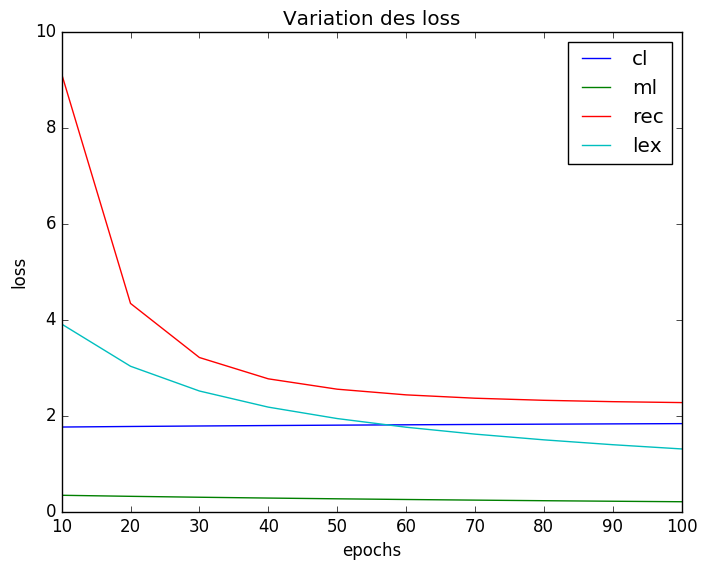
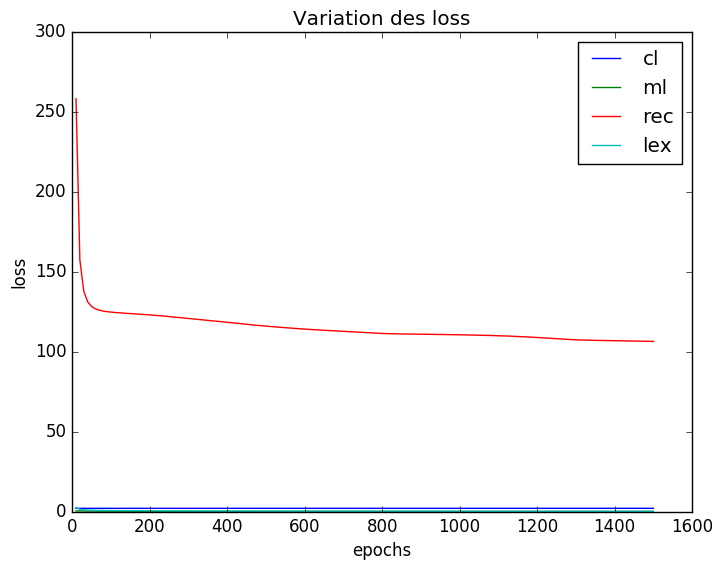
extract pair

diff --git a/kmeans_lexical_ml_cl/main.py b/kmeans_lexical_ml_cl/main.py
@@ -7,22 +7,21 @@ import math
 import autoencoder as au
 import matplotlib.pyplot as plt
 import sys
-from sklearn.cluster import KMeans
-from sklearn.datasets import fetch_20newsgroups
-from sklearn.feature_extraction.text import TfidfVectorizer
 import syntetic_data as synt
-    
+from utils import extract_pair
+
 def load_syntetic_data():
-    data = synt.syntetic(20,10,100, 3)
+    data = synt.syntetic(500,50,100, 15)
     return data.TFIDFvectorize(), data.labels_
 #Main
 if __name__ == "__main__":
     corpus, label = load_syntetic_data()
-    autoencoder = au.Autoencoder(10, 12, 10, corpus, np.array([1]), np.array([[6,7],[9,1],[9,5]]), np.array([[6,7],[13,7]]))
+    pml, pcl = extract_pair(label, 100)
+    autoencoder = au.Autoencoder(50, 12, 10, corpus, np.array([1]), pml, pcl)
     autoencoder.init_placeholder()
     autoencoder.init_weights()
     autoencoder.init_biases()
     autoencoder.init_layers()
     autoencoder.init_losses()
-    autoencoder.train(100, 0.01, [0.25, 0.25, 0.25, 0.25])
+    autoencoder.train(1500, 0.01, [0.25, 0.25, 0.25, 0.25])
     autoencoder.plot_loss()

diff --git a/kmeans_lexical_ml_cl/autoencoder.py b/kmeans_lexical_ml_cl/autoencoder.py
@@ -169,6 +169,8 @@ class Autoencoder:
                                                 self.X_ML2: self.batch_ML2,
                                                 self.X_CL1: self.batch_CL1,
                                                 self.X_CL2: self.batch_CL2})
+                if e % 100 == 0:
+                    print "epochs : "+str(e)
                 if e % 10 == 0:
                     _, l1 = sess.run([train_step, self.losses['rec']], feed_dict={self.X: self.batch,
                                                                                  self.X_KW1: self.batch_KW1,
@@ -207,10 +209,6 @@ class Autoencoder:
         plt.title('Variation des loss')
         plt.ylabel('loss')
         plt.xlabel('epochs')
-        print self.loss_cl
-        print self.loss_ml
-        print self.loss_rec
-        print self.loss_lex
         plt.plot(self.ep, self.loss_cl, label = 'cl')
         plt.plot(self.ep, self.loss_ml, label = 'ml')
         plt.plot(self.ep, self.loss_rec, label = 'rec')

diff --git a/kmeans_lexical_ml_cl/syntetic_data.py b/kmeans_lexical_ml_cl/syntetic_data.py
@@ -4,6 +4,7 @@
 import numpy as np
 from random import randint
 from math import log
+from sklearn.cluster import KMeans
 
 def wid(k, doc):
     sum_ = 0
@@ -19,12 +20,12 @@ def df(k, data):
 class syntetic:
     def __init__(self, n, m, max_value, nb_label):
         self.data_ = np.zeros((n, m))
-        self.labels_ = np.zeros(n)
         for i in range (n):
             for j in range(m):
                 self.data_[i][j] = randint(0, max_value)
-            self.labels_[i] = randint(1, nb_label)
-            
+        kmeans = KMeans(n_clusters=nb_label, random_state=0).fit(self.data_)
+        self.labels_ = kmeans.labels_
+        
     def TFIDFvectorize(self):
         data_TFIDFvectorized = np.zeros((self.data_.shape[0], self.data_.shape[1]))
         for i in range(self.data_.shape[0]):

diff --git a/kmeans_lexical_ml_cl/utils.py b/kmeans_lexical_ml_cl/utils.py
@@ -1,0 +1,22 @@
+from random import randint
+import numpy as np
+
+def extract_pair(labels, nb_pair):
+    pair_ml = []
+    pair_cl = []
+    b1 = True
+    b2 = True
+    n = labels.shape[0]
+    while nb_pair > 0 or b1 or b2:
+        i = randint(0, n-1)
+        j = i
+        while j == i:
+            j = randint(0,n-1)
+        if labels[i] == labels[j]:
+            pair_ml.append(np.array([i,j]))
+            b1 = False
+        else:
+            b2 = False
+            pair_cl.append(np.array([i,j]))
+        nb_pair-=1
+    return pair_ml, pair_cl
